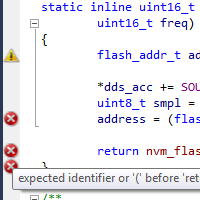
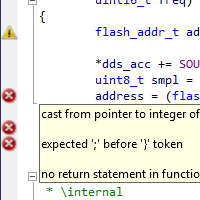
Update preview, use post-mouse move event for tooltips.

diff --git a/MarginOfError/src/ErrorGlyphMouseProcessor.cs b/MarginOfError/src/ErrorGlyphMouseProcessor.cs
@@ -25,7 +25,7 @@ namespace FourWalledCubicle.MarginOfError
             mToolTipProvider = toolTipProvider;
         }
 
-        public override void PreprocessMouseMove(MouseEventArgs e)
+        public override void PostprocessMouseMove(MouseEventArgs e)
         {
             ITextView view = mTextViewHost.TextView;
 
@@ -55,7 +55,7 @@ namespace FourWalledCubicle.MarginOfError
             {
                 if (newTag != currentTag)
                 {
-                    mToolTipProvider.ShowToolTip(trackingSpan, newTag.Description, PopupStyles.None);
+                    mToolTipProvider.ShowToolTip(trackingSpan, newTag.Description);
                     currentTag = newTag;
                 }
             }
